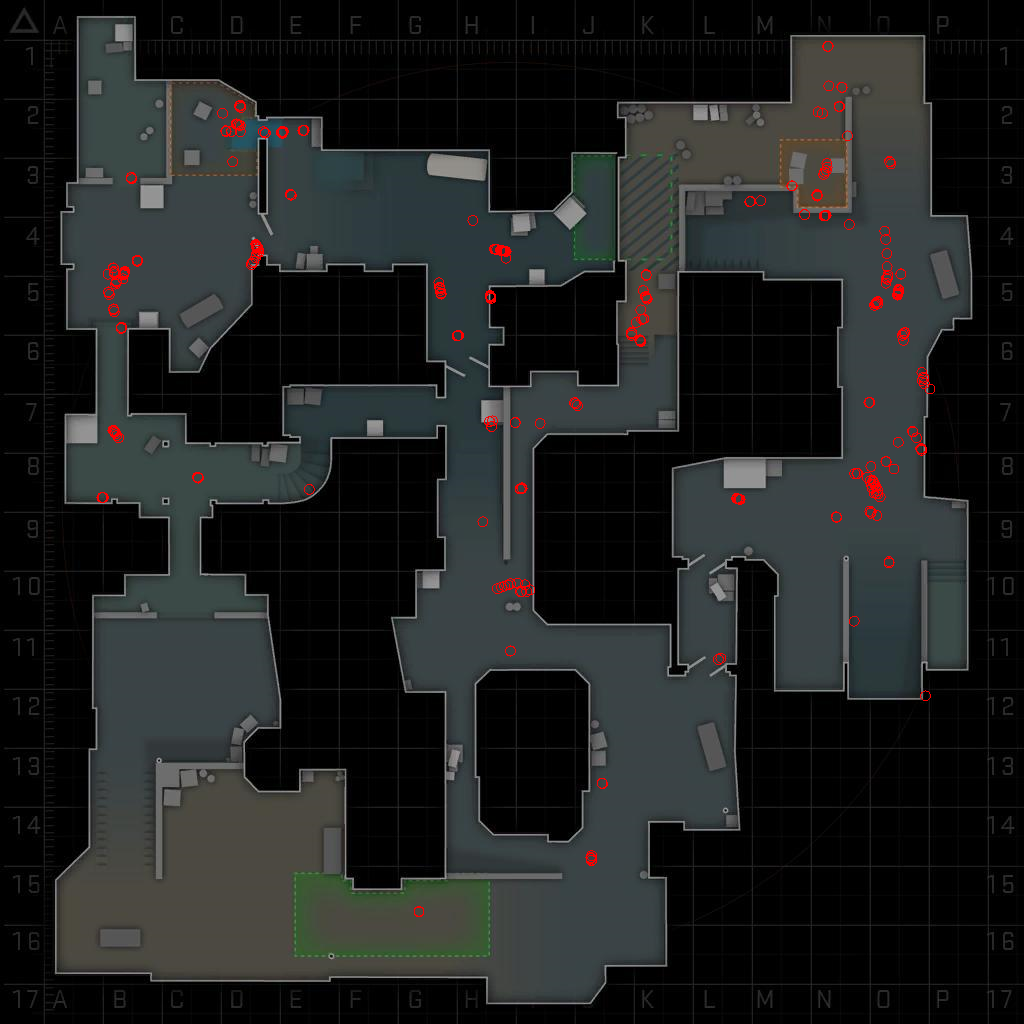
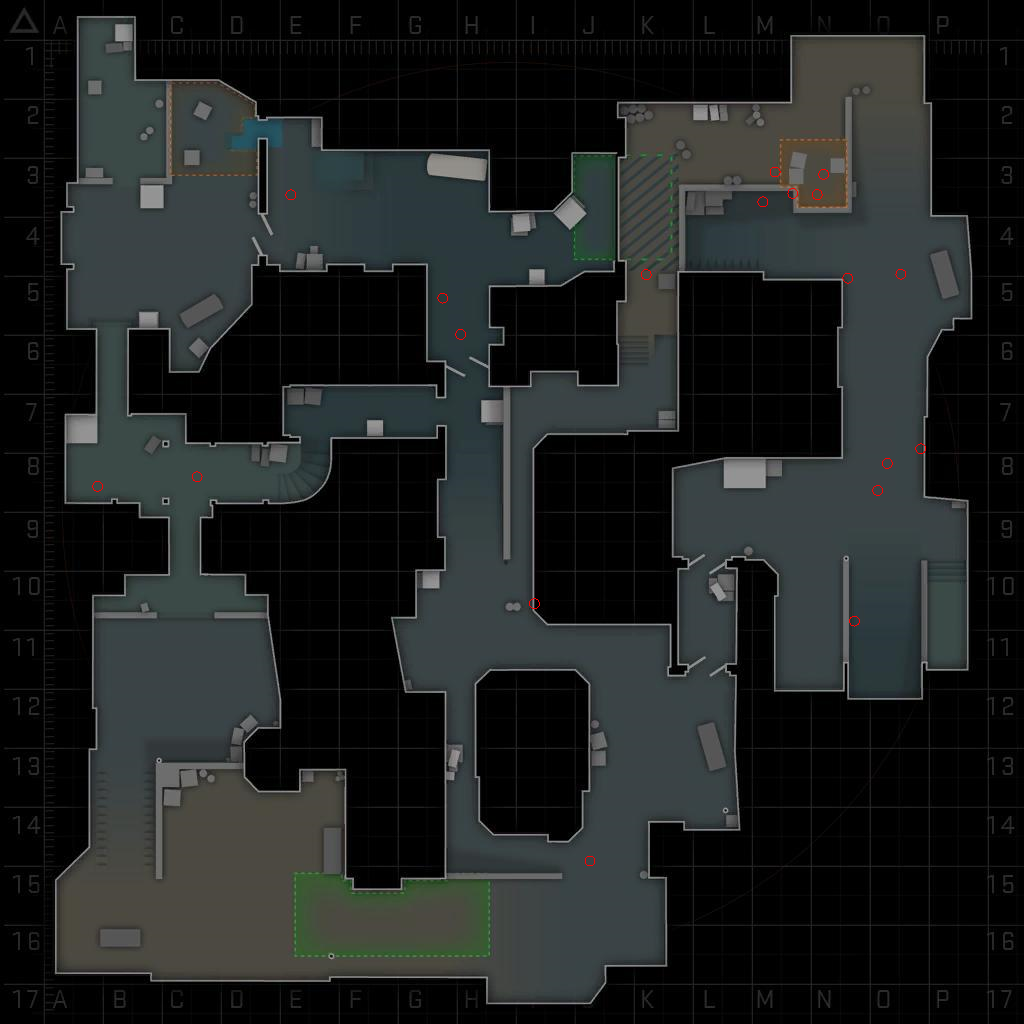
Evento PlayerKilled adicionado junto com suas posicoes

diff --git a/Controllers/HomeController.cs b/Controllers/HomeController.cs
@@ -14,7 +14,7 @@ namespace csgo_analytics.Controllers
     public class HomeController : Controller
     {
         
-        FileStream LDemo = System.IO.File.OpenRead("C:\\Demos\\dust2.dem");
+        FileStream LDemo = System.IO.File.OpenRead("C:\\Downloads_hltv\\dust2.dem");
         Map MapDeDust2;
         
         public HomeController(ILogger<HomeController> logger)
@@ -28,16 +28,18 @@ namespace csgo_analytics.Controllers
             DemoParser demoParser = new DemoParser(LDemo);
             demoParser.ParseHeader();
 
-            List<Vector2> posicoes = new List<Vector2>();
+            List<Vector2> shootingPositions = new List<Vector2>();
+            List<Vector2> deathPositions = new List<Vector2>();
             bool hasMatchStarted = false;
-            
 
             demoParser.MatchStarted += (sender, e) => {
                 hasMatchStarted = true;
             };
 
-            demoParser.PlayerHurt += (sender, e) => {
-                if(hasMatchStarted) {
+            demoParser.PlayerKilled += (sender, e) => {
+                if (e.Victim.Name.Contains("SILVASSAURO") && hasMatchStarted){
+                    Vector2 vet = TrasnlateScale(e.Victim.LastAlivePosition.X, e.Victim.LastAlivePosition.Y);
+                    deathPositions.Add(vet);
                 }
             };
             
@@ -47,14 +49,15 @@ namespace csgo_analytics.Controllers
                    && e.Weapon.Weapon != EquipmentElement.Smoke && e.Weapon.Weapon != EquipmentElement.Flash
                    && e.Weapon.Weapon != EquipmentElement.Decoy && e.Weapon.Weapon != EquipmentElement.HE){
                     Vector2 vet = TrasnlateScale(e.Shooter.Position.X, e.Shooter.Position.Y);
-                    posicoes.Add(vet);
+                    shootingPositions.Add(vet);
                 }
             };
 
             demoParser.ParseToEnd();
 
-            DrawingPoints(posicoes);
-
+            //DrawingPoints(shootingPositions);
+            DrawingPoints(deathPositions);
+            
             return View(demoParser.ReadPlayersName());
         }
 
@@ -102,7 +105,5 @@ namespace csgo_analytics.Controllers
                 this.Scale = Scale;
             }
         }
-
-
     }
 }
